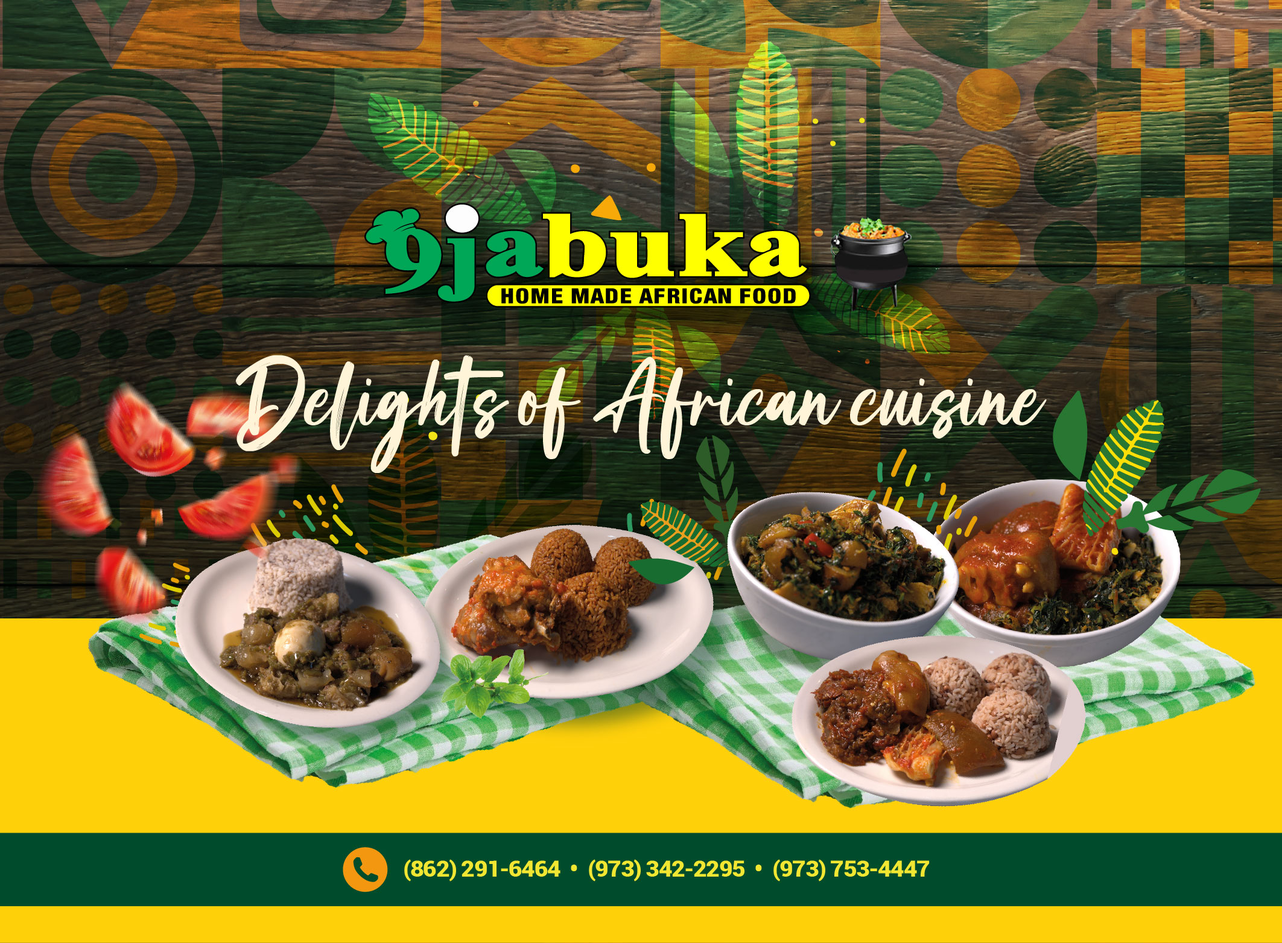
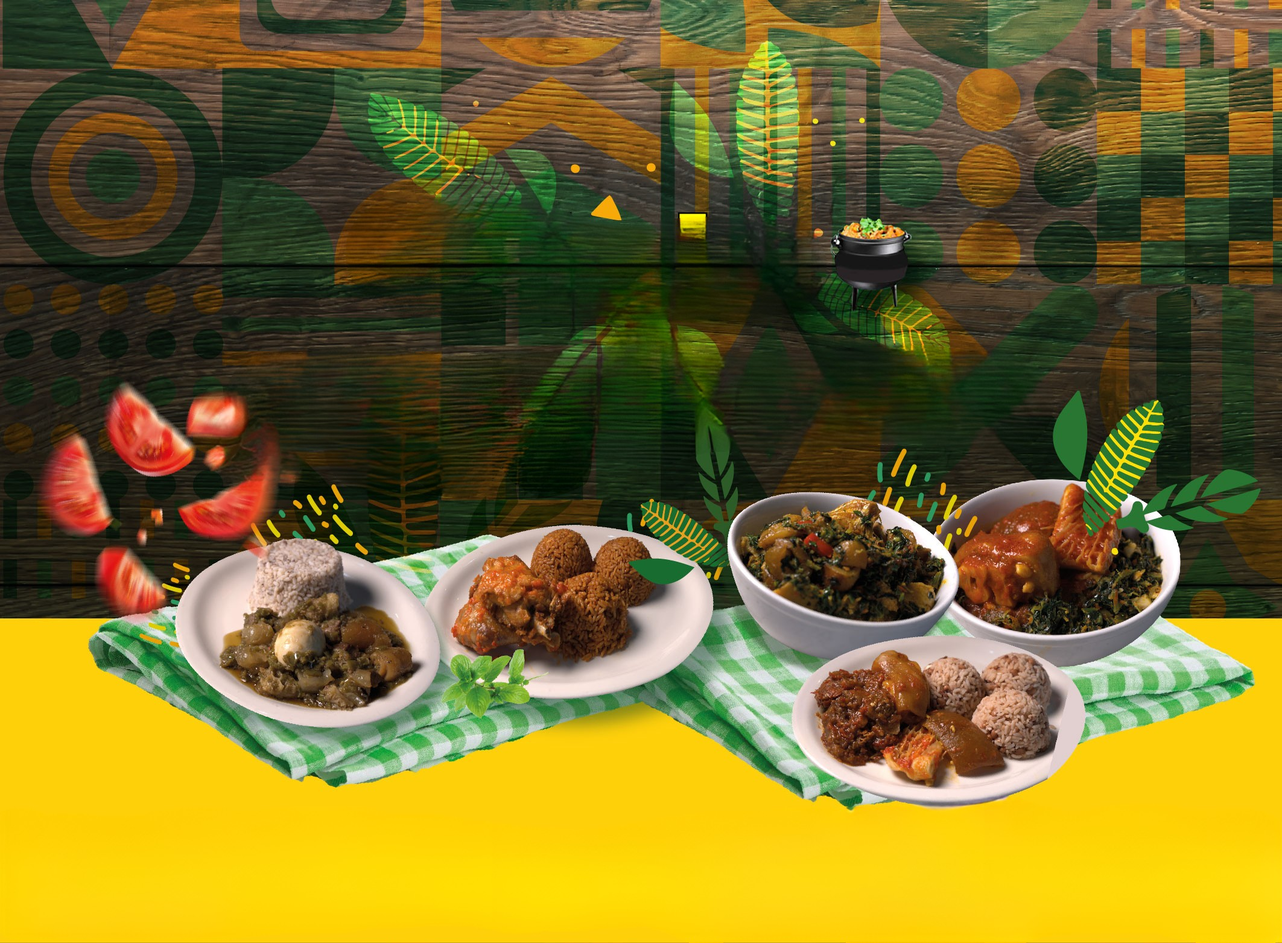
fix

diff --git a/src/app/pages/catering/page.jsx b/src/app/pages/catering/page.jsx
@@ -8,9 +8,9 @@ import { Home, MapPin, Phone, Mail, Calendar, Users, Clock, Menu, X } from 'luci
 
 // Placeholder images (replace with actual URLs hosted on your server or CDN)
 const CATERING_IMAGES = [
-  'https://images.unsplash.com/photo-1555244162-803834f70033?ixlib=rb-4.0.3&auto=format&fit=crop&w=800&q=80', // Party
+  '/r1.jpg', // Party
   'https://images.unsplash.com/photo-1519671282429-b44660ead0a7?ixlib=rb-4.0.3&auto=format&fit=crop&w=800&q=80', // Event setup
-  'https://images.unsplash.com/photo-1555244162-803834f70033?ixlib=rb-4.0.3&auto=format&fit=crop&w=800&q=80', // Party
+  '/r2.jpg', // Party
 ];
 
 const ReservationCateringPage = () => {
@@ -69,7 +69,7 @@ const ReservationCateringPage = () => {
 
   return (
     <div className="min-h-screen bg-gray-50">
-        <div className="absolute inset-0 bg-[url('/bg2.jpg')] lg:bg-[url('/bg.jpg')] fixed bg-cover bg-center bg-black/50"></div> 
+        <div className="absolute  inset-0 bg-[url('/bg2.jpg')] lg:bg-[url('/bg.jpg')] fixed bg-cover bg-center bg-black/50"></div> 
           <div className="relative z-10">
 
 
@@ -153,11 +153,13 @@ const ReservationCateringPage = () => {
       </AnimatePresence>
 
       {/* Main Content */}
-      <main className="pt-48 z-99">
+      <main className=" z-99">
         <div className="max-w-7xl mx-auto px-2 sm:px-6 lg:px-8 py-12">
           {/* Hero Section */}
          
-
+ <div>
+              <img src="/9ja.png" alt=''/>
+            </div>
          
 
           {/* Catering Section */}

diff --git a/src/app/page.jsx b/src/app/page.jsx
@@ -335,7 +335,11 @@ const FoodOrderingSystem = () => {
 
         {/* Main Content */}
         <main className="pt-16" id="menu">
-          <div className="max-w-7xl mx-auto px-4 sm:px-6 lg:px-8 py-8 pt-36">
+          <div className="max-w-7xl mx-auto px-4 sm:px-6 lg:px-8 py-8 ">
+
+            <div>
+              <img src="/9ja.png" alt=''/>
+            </div>
             
             <div className="mb-8">
               <div className="flex items-center justify-between mb-4">
